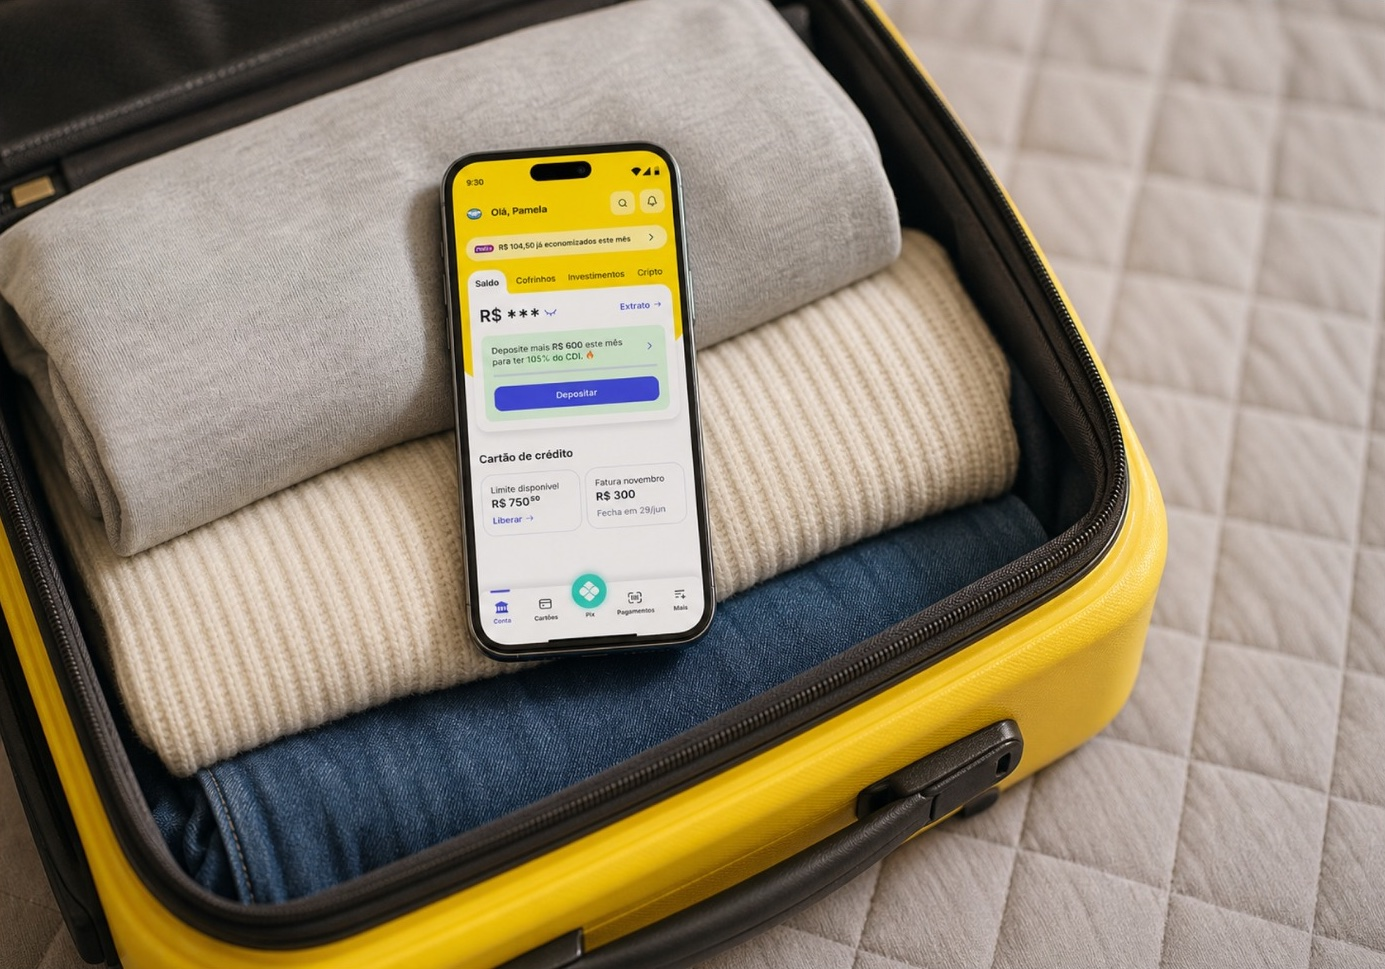
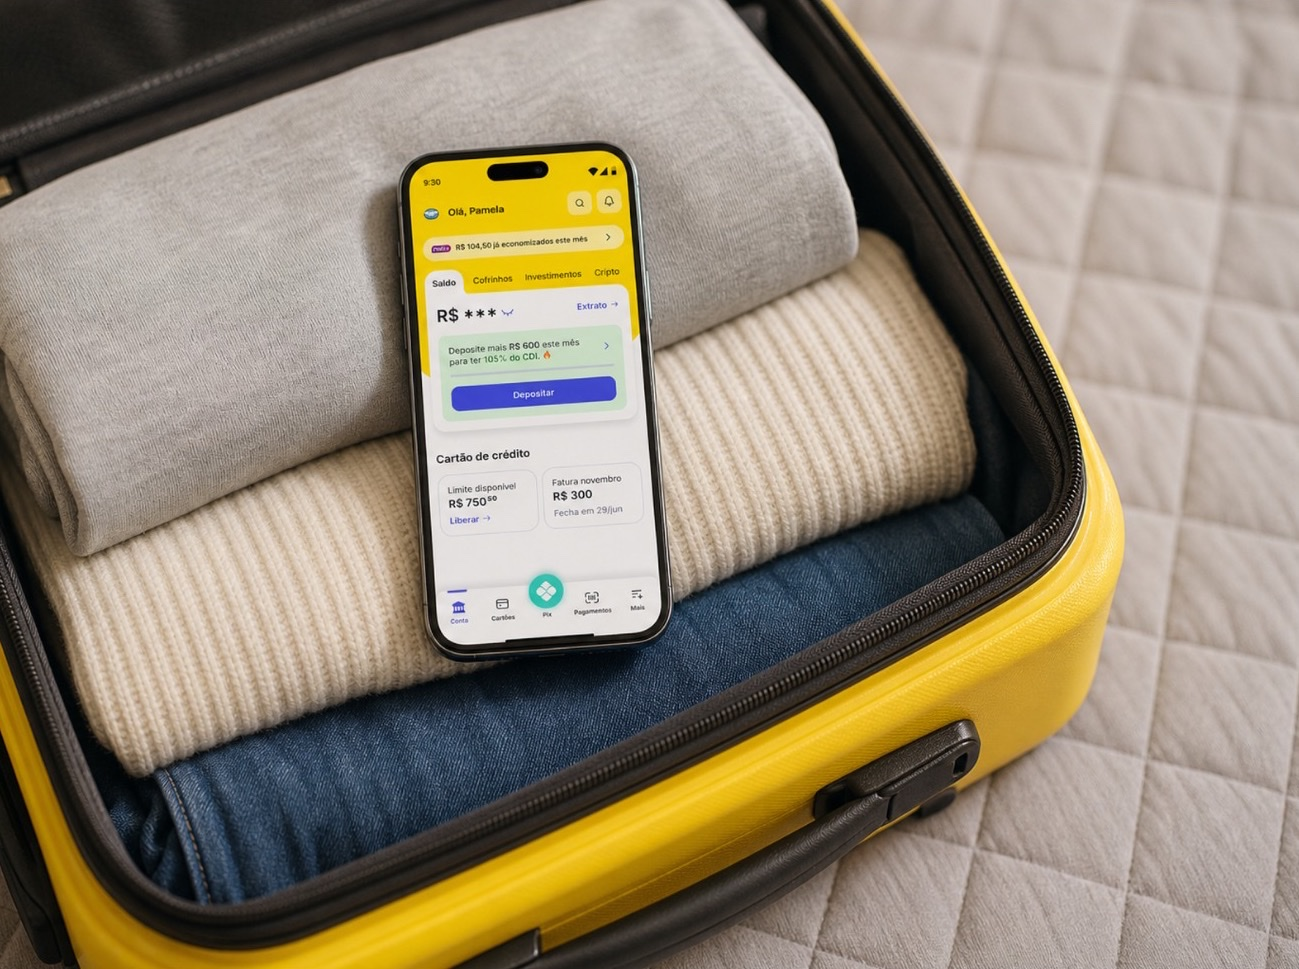
content: crop ad_10 to match ad_09 aspect ratio so the two-column row aligns
Claude-Session: https://claude.ai/code/session_01E9wt9LTfkhDV6zD72jadoY

diff --git a/src/app/mercado-pago/art-direction/page.tsx b/src/app/mercado-pago/art-direction/page.tsx
@@ -117,7 +117,7 @@ function ArtDirectionContent() {
               <GalleryImage src="/projects/art-direction/ad_09.jpg" alt="Art Direction: Card pulled from a handbag" width={1384} height={1032} />
             </div>
             <div>
-              <GalleryImage src="/projects/art-direction/ad_10.jpg" alt="Art Direction: Phone on a packed suitcase" width={1385} height={969} />
+              <GalleryImage src="/projects/art-direction/ad_10.jpg" alt="Art Direction: Phone on a packed suitcase" width={1299} height={969} />
             </div>
           </div>
         </Reveal>
